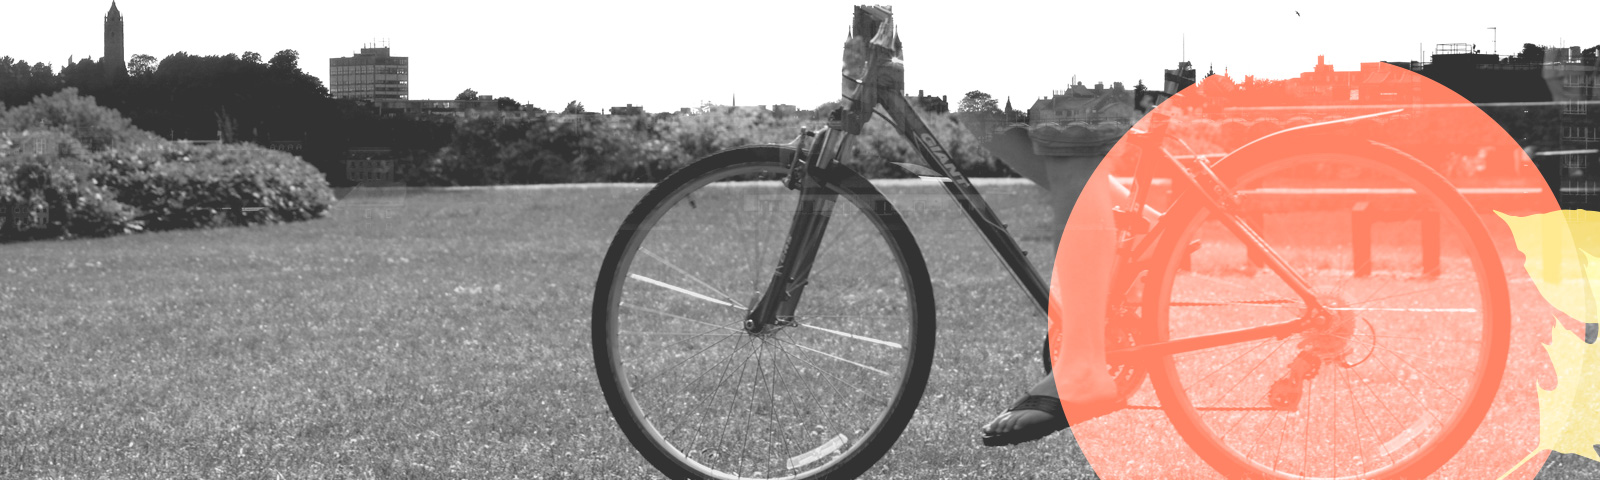
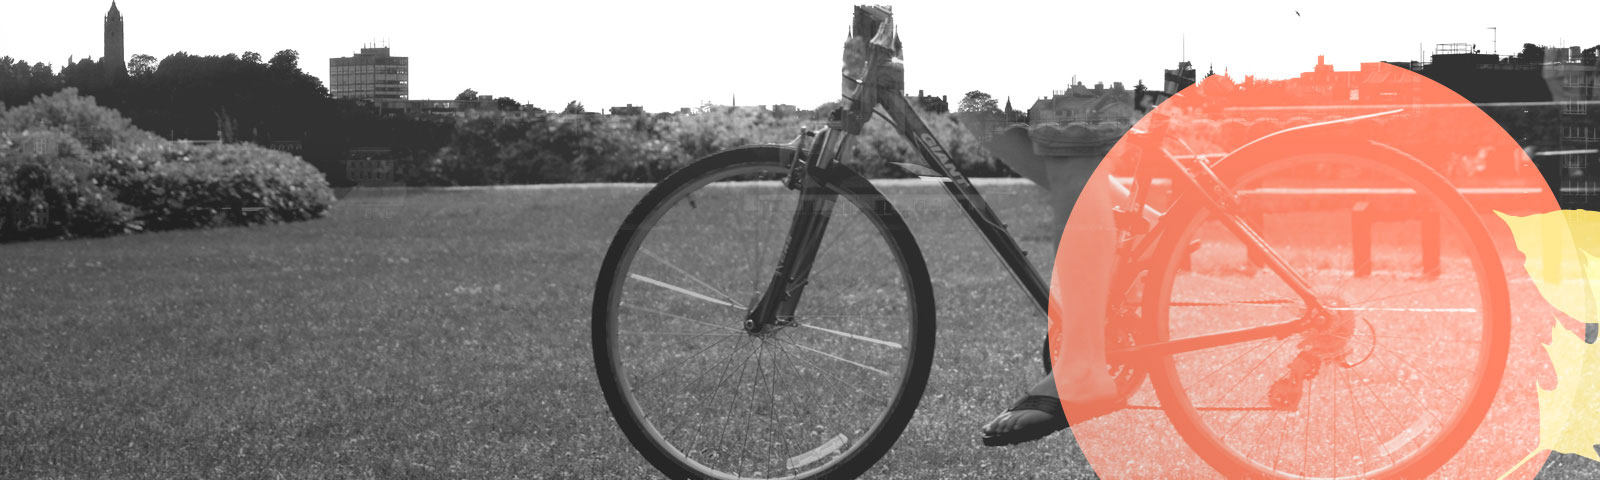
About section

Changed region(s): [[0.0, 0.2812, 0.625, 1.0], [0.6562, 0.6875, 0.75, 1.0]]

diff --git a/torchbox/static/torchbox/css/medium.css b/torchbox/static/torchbox/css/medium.css
@@ -134,12 +134,24 @@
 
 	.page-standardpage .were-tbx {
 	    margin-top: -8.5em;
-	    padding-top: 8.5em;
+	    padding-top: 16em;
 	    padding-left: 4em;
 	    padding-right: 4em;
-	    padding-bottom: 9em;
-	    background: url("/static/torchbox/images/bike.jpg") no-repeat bottom #5CB9E7;
+	    padding-bottom: 8.5em;
+	    background: url("/static/torchbox/images/jobs-placeholder-04.jpg") no-repeat bottom white;
 	}
+
+	.page-standardpage .were-tbx:before {
+			position: absolute;
+			background: url("/static/torchbox/images/circle-yellow.svg") no-repeat;
+			top: 450px;
+			left: 10%;
+			width: 160px;
+			height: 160px;
+			content: "";
+			background-size: 100% auto;
+	}
+
 
 	.page-standardpage .were-tbx p {
 			font-size: 1.3em;
@@ -155,12 +167,27 @@
 	}
 
 	.page-standardpage .were-tbx-2 h3 {
-	    font-size: 2em;
+	    font-size: 1.7em;
 	    font-weight: normal;
 	}
 
 	.page-standardpage .were-tbx-2 li {
-	    padding: 4em 2em;  
+	    padding: 8em 2em; 
+	    margin: 0;
+	    border-top: 1px solid rgba(0, 0, 0, 0.1);
+	}
+
+	.page-standardpage .were-tbx-2 li:first-child {
+	    border-top: none;
+	}
+
+	.page-standardpage .were-tbx-2 li.even {
+		text-align: right;
+	}
+
+	.page-standardpage .were-tbx-2 li.2 {
+		background: url("/static/torchbox/images/geeks.jpg") no-repeat;
+		-webkit-background-size: cover;
 	}
 
 
@@ -352,17 +379,6 @@
 
 	.page-jobindexpage .benefits li:first-child {
 	   	border-top: none;
-	}
-
-	.page-jobindexpage .benefits li.int-proj {
-	    position: relative;
-	    min-height: 18em;
-	    background: url("/static/torchbox/images/jobs-placeholder-05.jpg") no-repeat #5CB9E7;
-	}
-	.page-jobindexpage .benefits li.healthy {
-	    position: relative;
-	    min-height: 18em;
-	    background: url("/static/torchbox/images/jobs-placeholder-04.jpg") no-repeat #5CB9E7;
 	}
 
 	.page-jobindexpage main .benefits .heading-block {

diff --git a/torchbox/static/torchbox/css/main.css b/torchbox/static/torchbox/css/main.css
@@ -609,17 +609,22 @@ main nav li.active a:after {
 }
 
 /*Standard page*/
+
+.page-standardpage main {
+    padding: 0;
+}
+
 .page-standardpage h1 {
     font-size: 3em;
     font-weight: bold;
-    margin-top: 0.5em;
+    margin-top: 1em;
     margin-bottom: 0.2em;
     line-height: 1;
 }
 
-.page-standardpage h2 {
-    font-size: 1.6em;    
-    font-weight: bold;
+.page-standardpage .were-tbx h2 {
+    font-size: 2em;    
+    font-weight: normal;
     margin-bottom: 0.5em;
 }
 
@@ -650,9 +655,10 @@ main nav li.active a:after {
 }
 
 .page-standardpage .were-tbx-2 h3 {
-    font-size: 1em;
+    font-size: 1.2em;
     font-weight: normal;
     letter-spacing: 1;
+    line-height: 1.5;
 }
 
 .page-standardpage .were-tbx-2 li {
@@ -1256,6 +1262,7 @@ footer .tel {
 
 .map iframe {
     border: 0;
+    display: block;
 }
 
 #wagtail-userbar {
